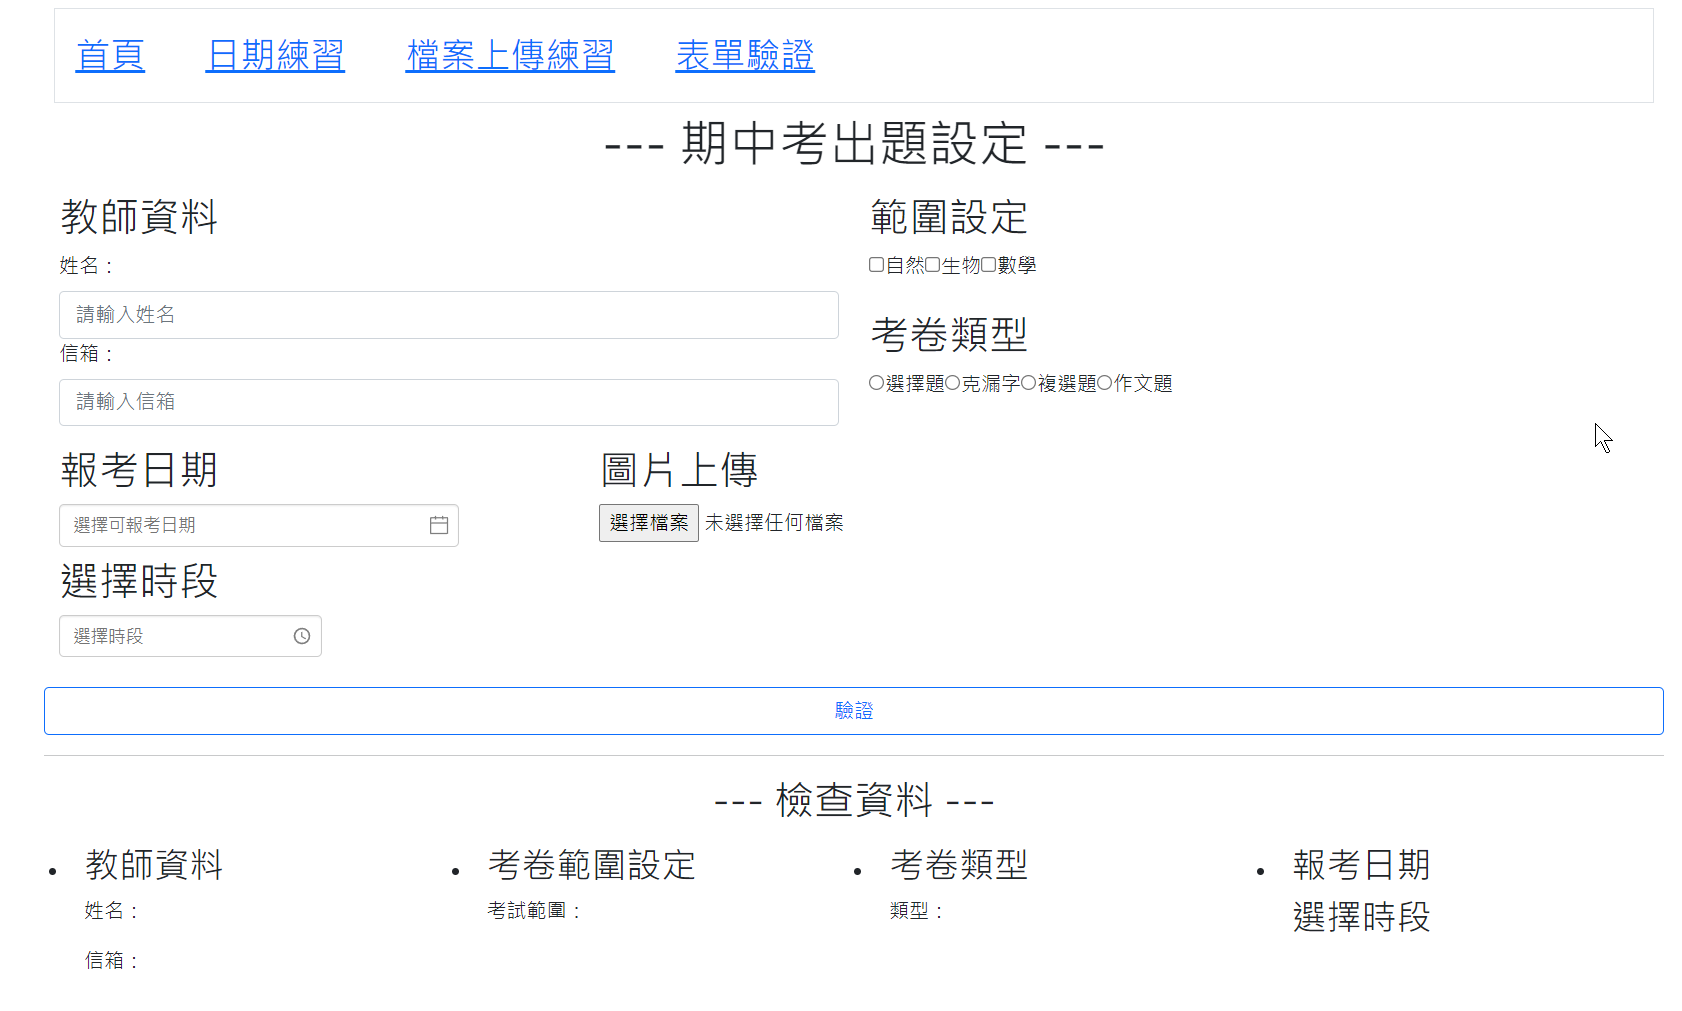
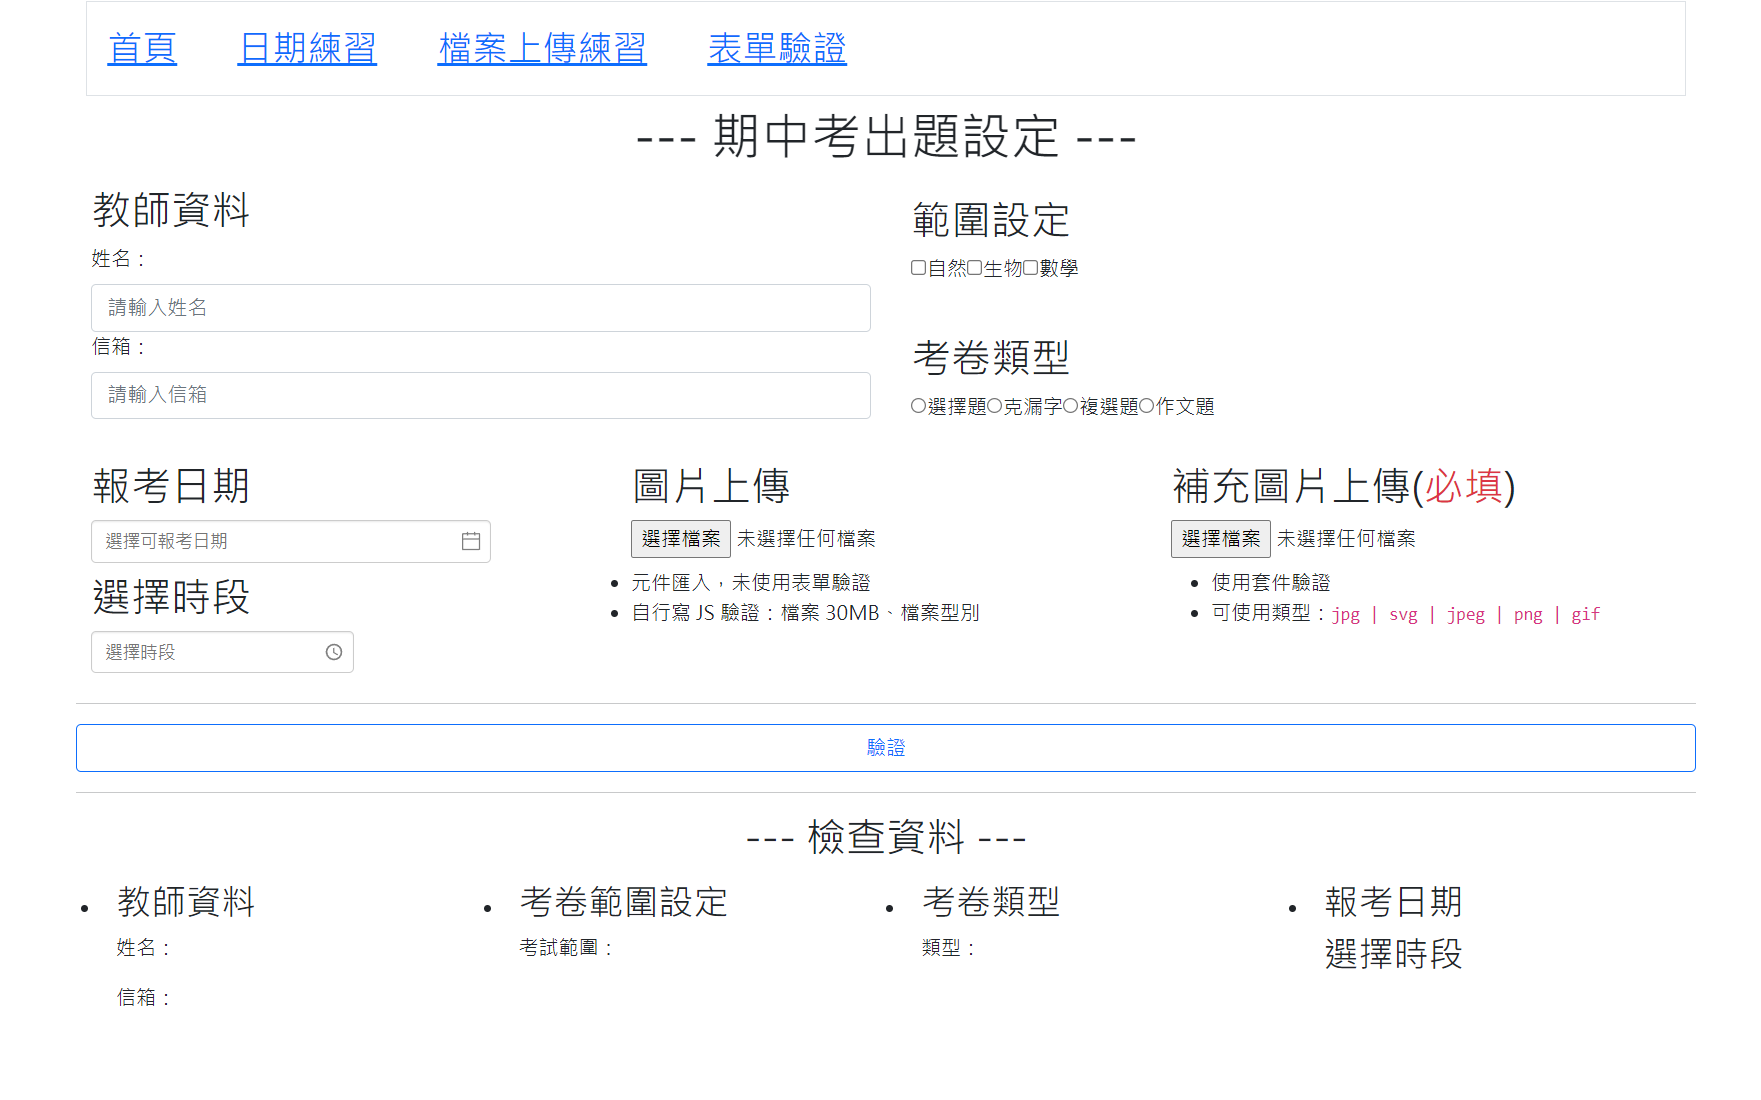
新增圖片上傳驗證、日期驗證

diff --git a/src/views/UploadView.vue b/src/views/UploadView.vue
@@ -3,21 +3,21 @@
     <h2>圖片上傳</h2>
     <input type="file" @change="getFileInfo">
   </div>
-  <div class="d-flex m-3 p-3">
-    <ul class="me-4" v-if="status > 0">
-      <li>上傳狀態：<span class="rounded-circle me-2 px-3 py-1"
-        :class="`bg-${status===1? 'success': 'danger'}`"></span>
-        <i v-if="status===uploadStatus.failSize" class="text-danger">*您的檔案超過限制的 "30MB"，您的檔案大小為 "{{ fileSizeMB }} MB"</i>
-        <i v-if="status===uploadStatus.failFormat" class="text-danger">*您的檔案格式不正確，您上傳的是 "{{ fileType }}"</i>
-      </li>
-      <li v-if="status===1">上傳日期：{{ uploadDate }}</li>
-      <li>檔案名稱：{{ fileName }}</li>
-      <li class="mb-3">檔案大小：{{ fileSizeMB }} MB</li>
-    </ul>
-    <div>
-      <img :src="fileImgUrl" alt="預覽圖片" width="300" v-if="status===1">
-    </div>
-  </div>
+  <ul class="ps-0">
+    <li>元件匯入，未使用表單驗證</li>
+    <li>自行寫 JS 驗證：檔案 30MB、檔案型別</li>
+  </ul>
+  <ul class="border" v-if="status > 0">
+    <li>上傳狀態：<span class="rounded-circle me-2 px-3 py-1"
+      :class="`bg-${status===1? 'success': 'danger'}`"></span>
+      <i v-if="status===uploadStatus.failSize" class="text-danger">*檔案超過限制的 "30MB"，檔案大小為 "{{ fileSizeMB }} MB"</i>
+      <i v-if="status===uploadStatus.failFormat" class="text-danger">*檔案格式不正確，您上傳的是 "{{ fileType }}"</i>
+    </li>
+    <li v-if="status===1">上傳日期：{{ uploadDate }}</li>
+    <li>檔案名稱：{{ fileName }}</li>
+    <li class="mb-3">檔案大小：{{ fileSizeMB }} MB</li>
+  </ul>
+  <img :src="fileImgUrl" alt="預覽圖片" width="300" v-if="status===1">
 </template>
 
 <script>

diff --git a/src/views/MixView.vue b/src/views/MixView.vue
@@ -52,7 +52,7 @@
         </div>
       </div>
       <!--//* 日期 -->
-      <div class="col-4 mb-4">
+      <div class="col-4 mb-4" :class="{ 'is-invalid': errors['檔案'] }">
         <h2>報考日期</h2>
         <section>
           <DatePicker v-model:value="testDate" confirm="true" confirm-text="確認修改"
@@ -87,9 +87,22 @@
       </div>
 
       <!-- //* 上傳 -->
-      <div class="col-8">
+      <div class="col-4">
         <Upload></Upload>
       </div>
+      <div class="col-4" :class="{ 'is-invalid': errors['檔案'] }">
+        <h2>補充圖片上傳(<span class="text-danger">必填</span>)</h2>
+        <Field type="file" name="檔案"
+        :rules="{ mimes: ['image/jpeg','image/png','image/jpg','image/svg','image/gif'], required: true }" :class="{ 'is-invalid': errors['檔案'] }"
+          id="field" @change="showImg" />
+        <Error-message name="檔案" class="invalid-feedback"></Error-message>
+        <ul>
+          <li class="mt-2">使用套件驗證</li>
+          <li>可使用類型：<code>jpg | svg | jpeg | png | gif</code></li>
+        </ul>
+        <img :src="fileImgUrl" alt="預覽圖片" width="300" v-if="fileImgUrl">
+      </div>
+      <hr>
 
       <button
         class="btn me-2 btn-outline-primary"
@@ -143,7 +156,8 @@ export default {
       },
       testDate: [],
       time: '',
-      errorShow: {}
+      errorShow: {},
+      fileImgUrl: ''
     }
   },
   methods: {
@@ -173,6 +187,10 @@ export default {
       } else {
         this.errorShow.time = false
       }
+    },
+    showImg (e) {
+      const file = e.target.files[0]
+      this.fileImgUrl = URL.createObjectURL(file)
     }
   }
 }

diff --git a/src/main.js b/src/main.js
@@ -13,7 +13,7 @@ import {
   Field, Form, ErrorMessage, defineRule, configure
 } from 'vee-validate'
 //* 匯入 vee-validate 相關規則
-import { required, email, min, max } from '@vee-validate/rules'
+import { required, email, min, max, image, mimes } from '@vee-validate/rules'
 //* 匯入多國語系的功能
 import { localize, setLocale } from '@vee-validate/i18n'
 //* 匯入繁體中文語系檔案
@@ -27,6 +27,8 @@ defineRule('required', required)
 defineRule('email', email)
 defineRule('min', min)
 defineRule('max', max)
+defineRule('image', image)
+defineRule('mimes', mimes)
 // 設定 vee-validate 全域規則
 configure({
   generateMessage: localize({ zh_TW: zhTW }), // 載入繁體中文語系
